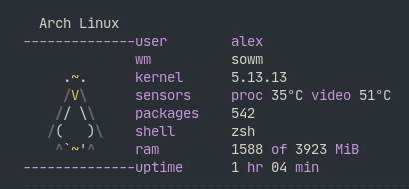
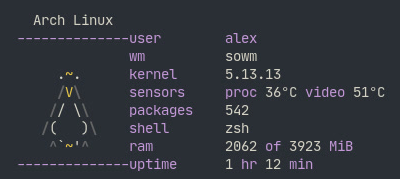
updated screenshot, updated readme

diff --git a/README.md b/README.md
@@ -11,4 +11,5 @@ lm_sensors
 
 [bfetch](https://gitlab.com/nautilor/bfetch)<br />
 [mfetch](https://github.com/depsterr/mfetch)<br />
-[fet.sh](https://github.com/6gk/fet.sh)
+[fet.sh](https://github.com/6gk/fet.sh)<br />
+[pfetch](https://github.com/dylanaraps/pfetch)
